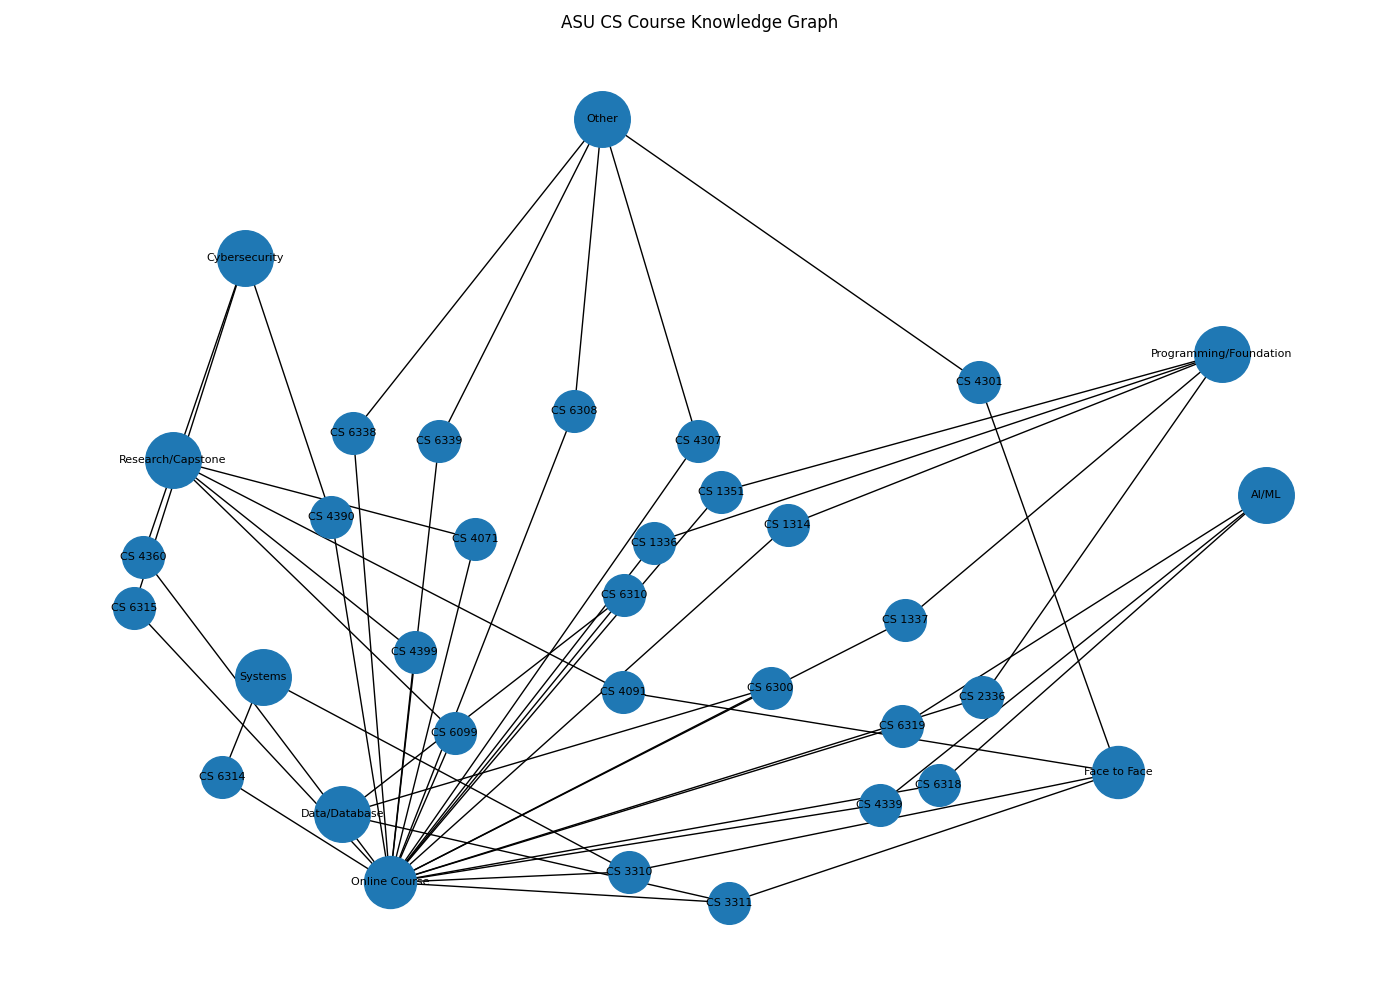
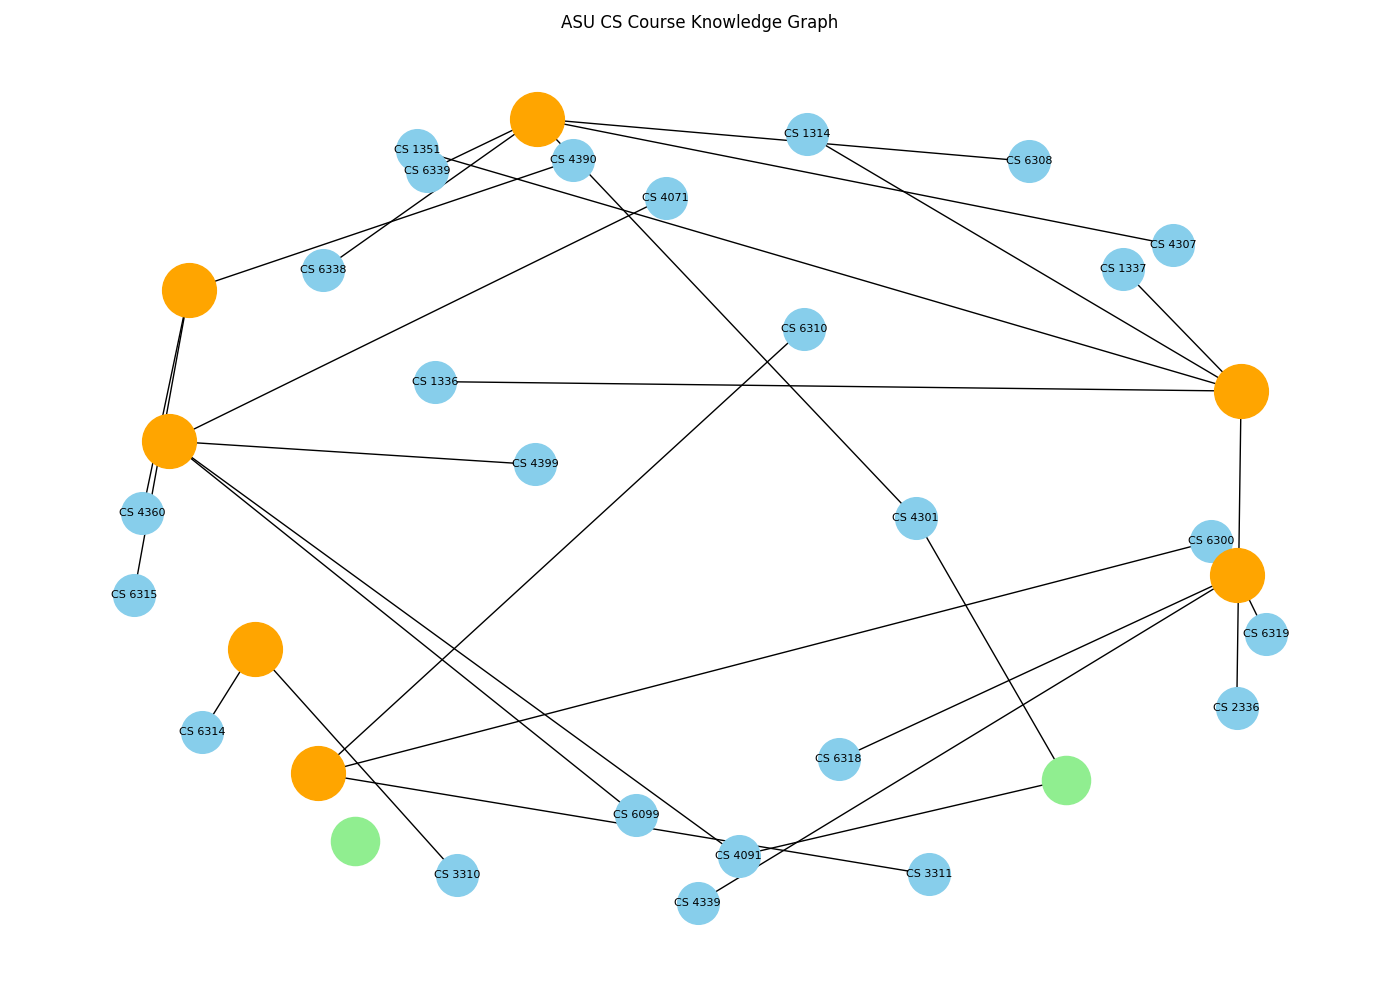
add course recommendation feature using graph reasoning

diff --git a/visualize_graph.py b/visualize_graph.py
@@ -62,6 +62,9 @@ def build_graph(courses):
 
         for fmt in course.get("formats", []):
             graph.add_node(fmt, node_type="format", label=fmt)
+
+            # only connect Face to Face (reduce clutter)
+        if fmt == "Face to Face":
             graph.add_edge(code, fmt, relation="offered_as")
 
     return graph
@@ -72,7 +75,7 @@ def visualize_graph(graph):
 
     plt.figure(figsize=(14, 10))
 
-    pos = nx.spring_layout(graph, seed=42, k=0.8)
+    pos = nx.spring_layout(graph, seed=42, k=1.2)
 
     course_nodes = [
         node for node, data in graph.nodes(data=True)
@@ -89,16 +92,19 @@ def visualize_graph(graph):
         if data.get("node_type") == "format"
     ]
 
-    nx.draw_networkx_nodes(graph, pos, nodelist=course_nodes, node_size=900)
-    nx.draw_networkx_nodes(graph, pos, nodelist=category_nodes, node_size=1600)
-    nx.draw_networkx_nodes(graph, pos, nodelist=format_nodes, node_size=1400)
+    nx.draw_networkx_nodes(graph, pos, nodelist=course_nodes, node_color="skyblue", node_size=900)
+    nx.draw_networkx_nodes(graph, pos, nodelist=category_nodes, node_color="orange", node_size=1500)
+    nx.draw_networkx_nodes(graph, pos, nodelist=format_nodes, node_color="lightgreen", node_size=1200)
 
     nx.draw_networkx_edges(graph, pos, arrows=True, arrowstyle="->", arrowsize=12)
 
-    labels = {
-        node: data.get("label", node)
-        for node, data in graph.nodes(data=True)
-    }
+    labels = {}
+
+    for node, data in graph.nodes(data=True):
+        if data.get("node_type") == "course":
+            labels[node] = node  # chỉ show code: CS 3311
+    else:
+        labels[node] = node
 
     nx.draw_networkx_labels(graph, pos, labels=labels, font_size=8)
 

diff --git a/README.md b/README.md
@@ -1,1 +1,88 @@
 # intelligent-knowledge-system
+# ASU CS Course Knowledge Graph
+
+A multi-relational knowledge graph built from real Angelo State University (ASU) course data.  
+The system supports interactive querying, filtering, and recommendation of courses based on category and delivery format.
+
+---
+
+## 🚀 Features
+
+- Data pipeline: raw → cleaned → structured JSON
+- Knowledge graph using NetworkX
+- Multi-relational modeling:
+  - Course → Category (AI/ML, Cybersecurity, etc.)
+  - Course → Format (Online / Face to Face)
+- Interactive CLI query system
+- Recommendation engine (graph-based reasoning)
+- Graph visualization (PNG export)
+
+---
+
+## 🧠 Tech Stack
+
+- Python
+- NetworkX
+- Matplotlib
+- JSON data pipeline
+
+---
+
+## 📊 Example Visualization
+
+![Graph](data/output/asu_course_graph.png)
+
+---
+
+## ⚙ Setup
+
+```bash
+pip install -r requirements.txt
+
+🔍 Available Commands
+1. List all courses
+list
+2. Search courses by keyword
+search machine
+search security
+search data
+3. Filter by format
+format Online Course
+format Face to Face
+4. Filter by category
+category AI/ML
+category Cybersecurity
+category Data/Database
+category Systems
+category Programming/Foundation
+5. View course details
+details CS 3311
+6. Graph summary
+summary
+7. Help menu
+help
+8. Exit program
+exit
+💡 Example Usage
+query> search machine
+query> category AI/ML
+query> details CS 3311
+🗂 Output
+
+Each query result is automatically saved to:
+
+data/output/query_results.json
+🧩 Project Structure
+data/
+├── raw/          # original ASU data
+├── processed/    # cleaned course dataset
+└── output/       # query results and graph images
+
+## 🧠 Interactive Query Usage
+
+After running the query system, you can interact with the knowledge graph using the following commands:
+
+### ▶ Run the tool
+
+```bash
+python query_graph.py
